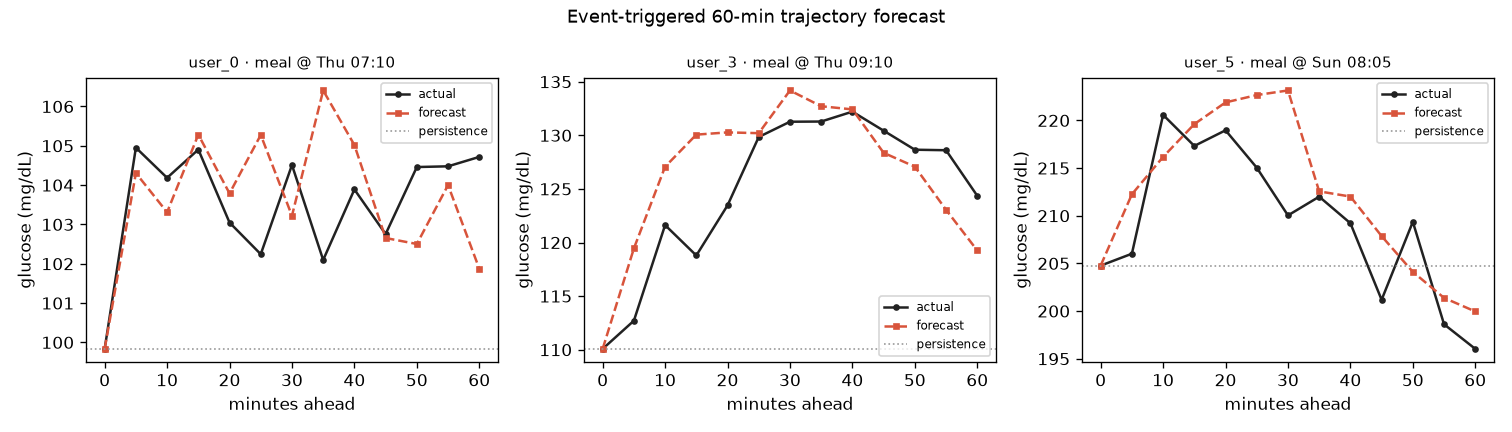
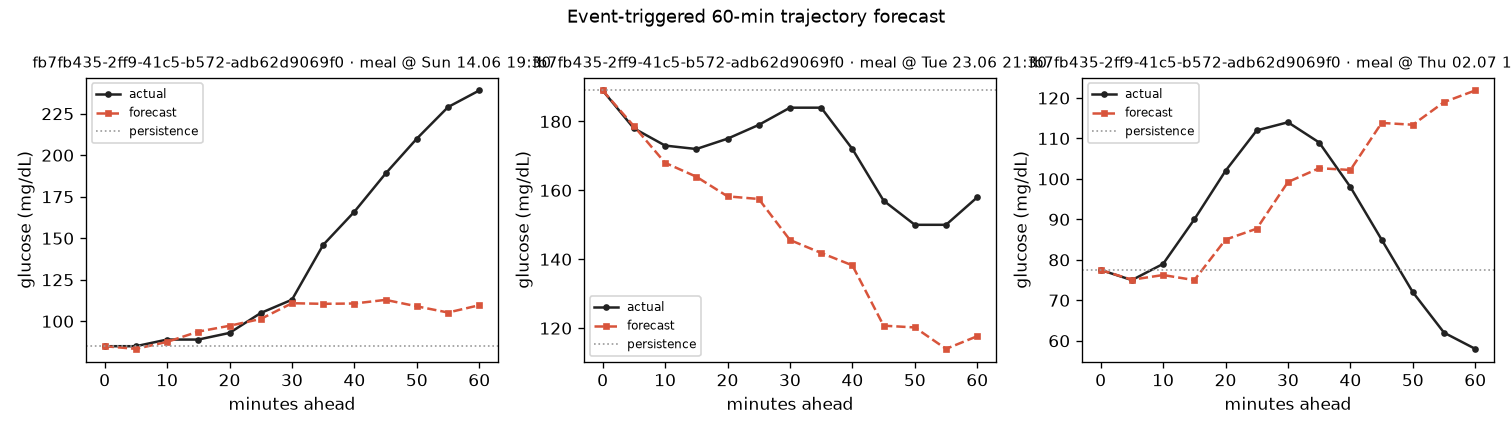
Fix curve plot: dynamic horizon title + non-overlapping panel labels
- Suptitle used a hardcoded "60-min"; now derives the horizon from the data
  ("30-min glucose forecast — predicted vs actual vs persistence").
- Per-panel titles carried the full UUID and overlapped/clipped; truncate the
  user id to 8 chars and use constrained_layout for spacing.

diff --git a/src/insulink_predictor/eval/reporting.py b/src/insulink_predictor/eval/reporting.py
@@ -70,18 +70,18 @@ def plot_curves(examples: list[dict], path: str | Path) -> Path:
     path = Path(path)
     path.parent.mkdir(parents=True, exist_ok=True)
     n = max(1, len(examples))
-    fig, axes = plt.subplots(1, n, figsize=(4.2 * n, 3.6), squeeze=False)
+    horizon = int(examples[0]["minutes"][-1]) if examples else 0
+    fig, axes = plt.subplots(1, n, figsize=(4.6 * n, 3.8), squeeze=False, constrained_layout=True)
     for ax, ex in zip(axes[0], examples):
         m = [0, *ex["minutes"]]
         ax.plot(m, [ex["g0"], *ex["actual"]], "o-", color="#222", label="actual", ms=3)
         ax.plot(m, [ex["g0"], *ex["predicted"]], "s--", color="#d8543b", label="forecast", ms=3)
         ax.axhline(ex["g0"], color="#999", ls=":", lw=1, label="persistence")
-        ax.set_title(ex["title"], fontsize=9)
+        ax.set_title(ex["title"], fontsize=8)
         ax.set_xlabel("minutes ahead")
         ax.set_ylabel("glucose (mg/dL)")
         ax.legend(fontsize=7)
-    fig.suptitle("Event-triggered 60-min trajectory forecast", fontsize=11)
-    fig.tight_layout()
+    fig.suptitle(f"{horizon}-min glucose forecast — predicted vs actual vs persistence", fontsize=11)
     fig.savefig(path, dpi=120)
     plt.close(fig)
     return path

diff --git a/src/insulink_predictor/eval/harness.py b/src/insulink_predictor/eval/harness.py
@@ -245,9 +245,10 @@ def _curve_examples(test, curve_models, feature_cols, cfg, max_step=None, n=3, a
         actual = [float(test.iloc[j][f"cy_{k}"]) for k in range(1, max_step + 1)]
         ts = pd.Timestamp(test.iloc[j]["ts_local"]).strftime("%a %d.%m %H:%M")
         tag = "meal" if bool(test.iloc[j].get("event_meal", False)) else "t"
+        uid_short = str(test.iloc[j]["user_id"])[:8]  # keep titles short so they don't overlap
         examples.append(
             {
-                "title": f"{test.iloc[j]['user_id']} · {tag} @ {ts}",
+                "title": f"{uid_short}… · {tag} @ {ts}",
                 "g0": float(test.iloc[j]["glucose_mgdl"]),
                 "minutes": minutes,
                 "predicted": [float(x) for x in pred],

diff --git a/reports/event_skill.md b/reports/event_skill.md
@@ -1,6 +1,6 @@
 | window | horizon_min | n | rmse | rmse_persistence | skill |
 | --- | --- | --- | --- | --- | --- |
-| global | 30 | 6743 | 7.525 | 8.793 | 0.1443 |
-| global | 60 | 6677 | 11.373 | 12.553 | 0.094 |
-| post_meal | 30 | 726 | 7.922 | 12.449 | 0.3637 |
-| post_meal | 60 | 722 | 11.608 | 16.338 | 0.2895 |
+| global | 30 | 2991 | 25.79 | 30.179 | 0.1454 |
+| global | 60 | 2971 | 35.244 | 41.791 | 0.1566 |
+| post_meal | 30 | 633 | 36.717 | 42.215 | 0.1302 |
+| post_meal | 60 | 633 | 45.694 | 57.34 | 0.2031 |
